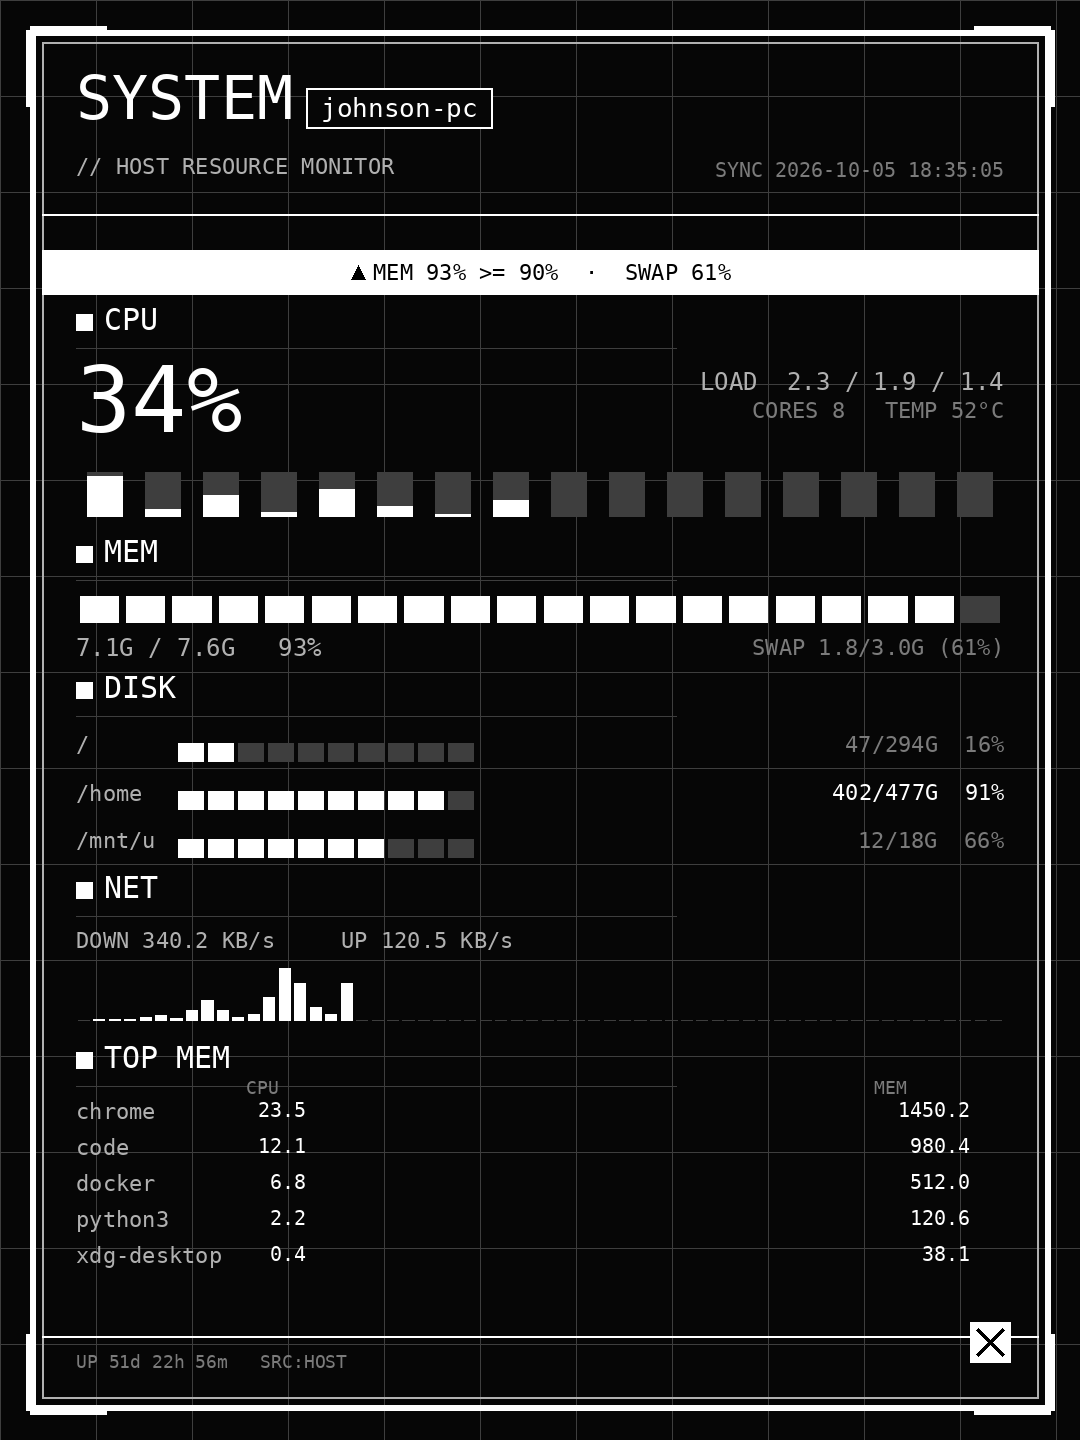
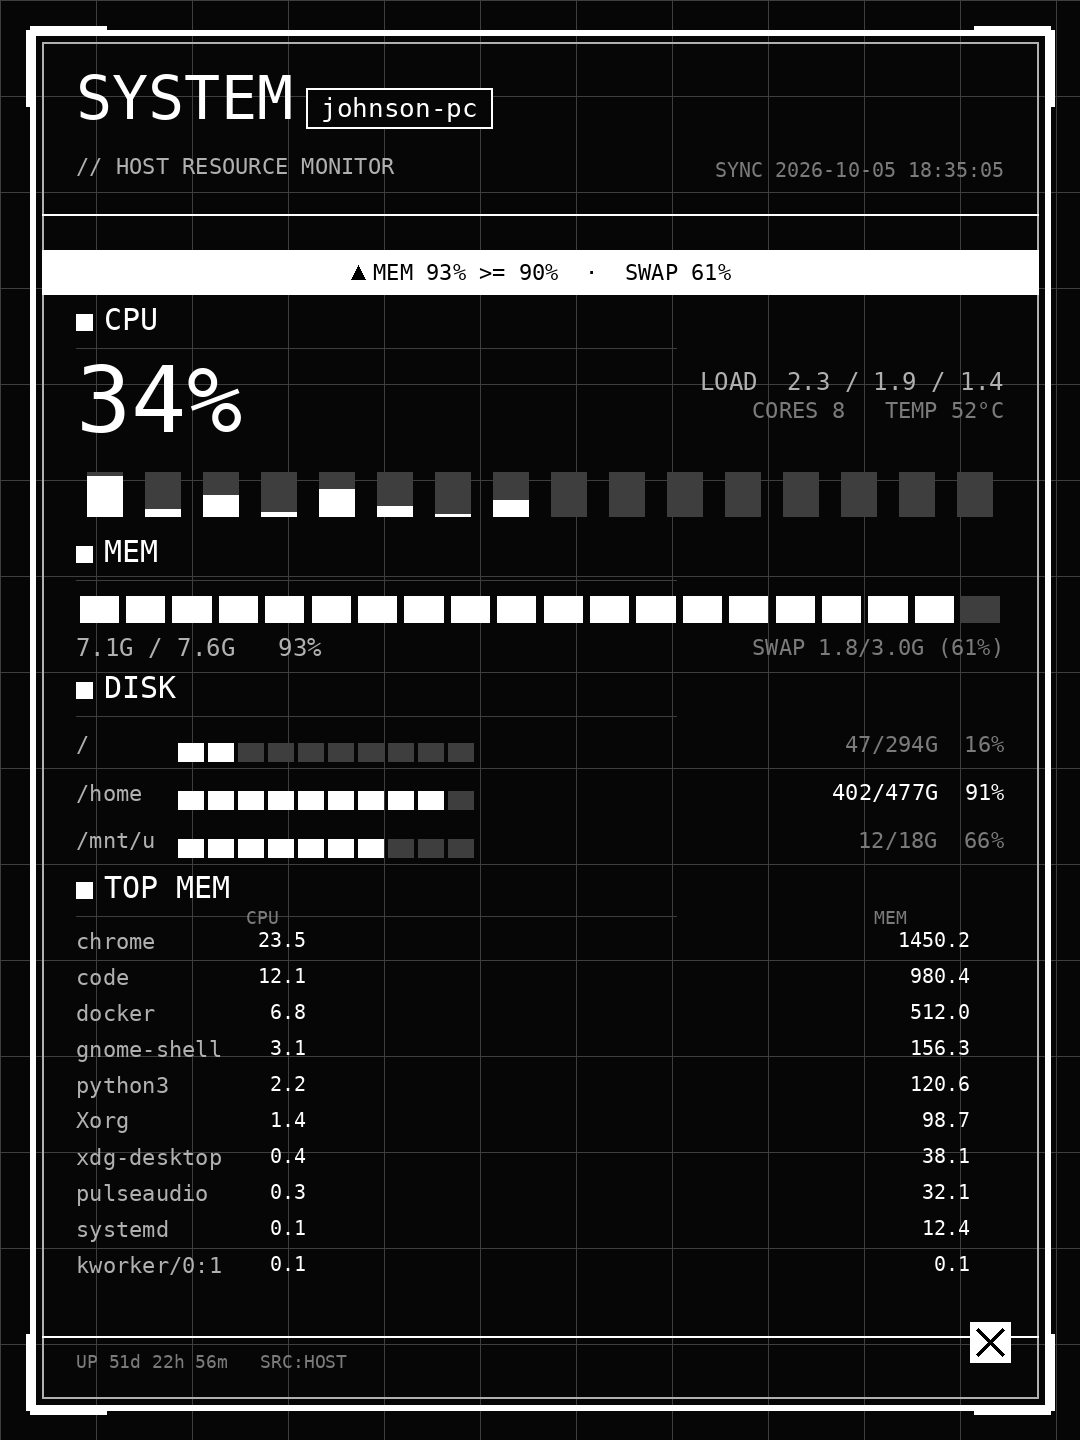
Drop the NET section; TOP MEM now shows 10 rows
- cover: NET section (rate line + sparkline) removed entirely; on short
  screens TOP MEM (430px budget) is the only block that gets dropped,
  the gauges never are
- samplers: PROC_MAX 5 -> 10
- Kindle fallback board: NET line removed, TOP MEM 3 -> 10 rows
- sample data extended to 10 procs (mem-descending); README synced

diff --git a/res_cover.py b/res_cover.py
@@ -279,20 +279,6 @@ def _sec_disk(d, x0, xr, y, s, st, P):
     return y
 
 
-def _sec_net(d, x0, xr, y, s, st, P):
-    net = st.get("net") or {}
-    y = _section_label(d, x0, y, "NET", P, s)
-    _text(d, (x0, y), "DOWN %s KB/s     UP %s KB/s"
-          % (net.get("downKbps", 0), net.get("upKbps", 0)),
-          int(22 * s), P["LGRAY"], anchor="lt")
-    y += int(36 * s)
-    hist = net.get("hist_down") or []
-    if hist:
-        _spark(d, x0, y, xr - x0, int(52 * s), hist, P, n=60)
-        y += int(52 * s + 26 * s)
-    return y
-
-
 def _sec_procs(d, x0, xr, y, s, st, P):
     procs = st.get("procs") or []
     y = _section_label(d, x0, y, "TOP MEM", P, s)
@@ -303,7 +289,7 @@ def _sec_procs(d, x0, xr, y, s, st, P):
           P["MGRAY"], anchor="lm")
     _text(d, (xr - int(130 * s), y - int(14 * s)), "MEM", int(18 * s),
           P["MGRAY"], anchor="lm")
-    for p in procs[:5]:
+    for p in procs[:10]:
         name = str(p.get("name", "?"))
         # clip the name to the name column so it can never run into the
         # CPU value column (measured, font-agnostic)
@@ -406,14 +392,12 @@ def render_res_cover(status, w=1080, h=1440, mono=True, theme="dark",
                fill=P["INK"] + (255,), anchor="lm")
         y = ay + int(44 * s) + int(14 * s)
 
-    # ---- sections; on a short screen the NET sparkline and TOP block are the
-    # ---- first things dropped, never the gauges ------------------------------
+    # ---- sections; on a short screen the TOP MEM block is dropped first,
+    # ---- never the gauges ----------------------------------------------------
     y = _sec_cpu(d, x0, xr, y, s, status, P)
     y = _sec_mem(d, x0, xr, y, s, status, P)
     y = _sec_disk(d, x0, xr, y, s, status, P)
-    if y + int(140 * s) < bottom_limit:
-        y = _sec_net(d, x0, xr, y, s, status, P)
-    if y + int(200 * s) < bottom_limit:
+    if y + int(430 * s) < bottom_limit:
         y = _sec_procs(d, x0, xr, y, s, status, P)
 
     # ---- footer ----------------------------------------------------------------
@@ -483,9 +467,14 @@ def sample_status():
             {"name": "chrome", "pid": 2211, "cpu": 23.5, "memMB": 1450.2},
             {"name": "code", "pid": 1180, "cpu": 12.1, "memMB": 980.4},
             {"name": "docker", "pid": 445, "cpu": 6.8, "memMB": 512.0},
+            {"name": "gnome-shell", "pid": 3001, "cpu": 3.1, "memMB": 156.3},
             {"name": "python3", "pid": 77, "cpu": 2.2, "memMB": 120.6},
+            {"name": "Xorg", "pid": 910, "cpu": 1.4, "memMB": 98.7},
             {"name": "xdg-desktop-portal", "pid": 551, "cpu": 0.4,
              "memMB": 38.1},
+            {"name": "pulseaudio", "pid": 812, "cpu": 0.3, "memMB": 32.1},
+            {"name": "systemd", "pid": 1, "cpu": 0.1, "memMB": 12.4},
+            {"name": "kworker/0:1", "pid": 14, "cpu": 0.1, "memMB": 0.1},
         ],
         "alarms": [],
     }

diff --git a/res_collect.py b/res_collect.py
@@ -45,7 +45,7 @@ except Exception:
 
 HIST_LEN = 60          # sparkline history kept in memory (one sample per tick)
 DISK_MAX = 4           # disk rows shown (renderer cap)
-PROC_MAX = 5           # top processes shown
+PROC_MAX = 10          # top-mem processes shown
 DISK_FS = ("ext4", "ext3", "xfs", "btrfs", "zfs", "apfs", "ntfs", "ntfs3",
            "vfat", "exfat", "f2fs", "jfs", "reiserfs", "cifs", "fuse.")
 NET_SKIP = ("lo", "docker", "veth", "br-", "cni", "tap", "tun", "virbr", "ltx")

diff --git a/README.md b/README.md
@@ -1,6 +1,6 @@
 # Host Monitor for Kindle（墨水屏主机资源看板）
 
-把 **本机（或远端机器）的 CPU / 内存 / 磁盘 / 网络 / TOP 进程**，实时投到
+把 **本机（或远端机器）的 CPU / 内存 / 磁盘 / TOP 内存进程**，实时投到
 **Kindle / KOReader 墨水屏**上，做成一个**常驻看板**。
 
 这是 [RC-APC/workbuddy_monitor.koplugin](https://github.com/RC-APC/workbuddy_monitor.koplugin)
@@ -17,8 +17,8 @@
 
 - **常驻看板**：Kindle 上常驻显示，每 **3 分钟**自动刷新。
 - **指标**：CPU 总占用 + 每核柱状图 + load1/5/15（+ 温度，若内核暴露）；
-  内存/Swap 分段条；磁盘各分区（最多 4 行）；网络上下行速率 + 60 点下行
-  迷你走势；TOP 5 进程（CPU% + 内存 MB）；运行时长。
+  内存/Swap 分段条；磁盘各分区（最多 4 行）；TOP 10 内存进程
+  （CPU% + 内存 MB，按内存降序）；运行时长。
 - **双配色**：`theme=dark` 黑底白字 / `theme=light` 白底黑字，均为墨水屏安全灰度。
 - **阈值告警条**：内存 ≥90%、磁盘 ≥90%、CPU ≥95%、Swap ≥50%、
   load1 ≥ 2×核数，任一命中就在封面顶部画全宽反色告警条（和原版「登录失效」
